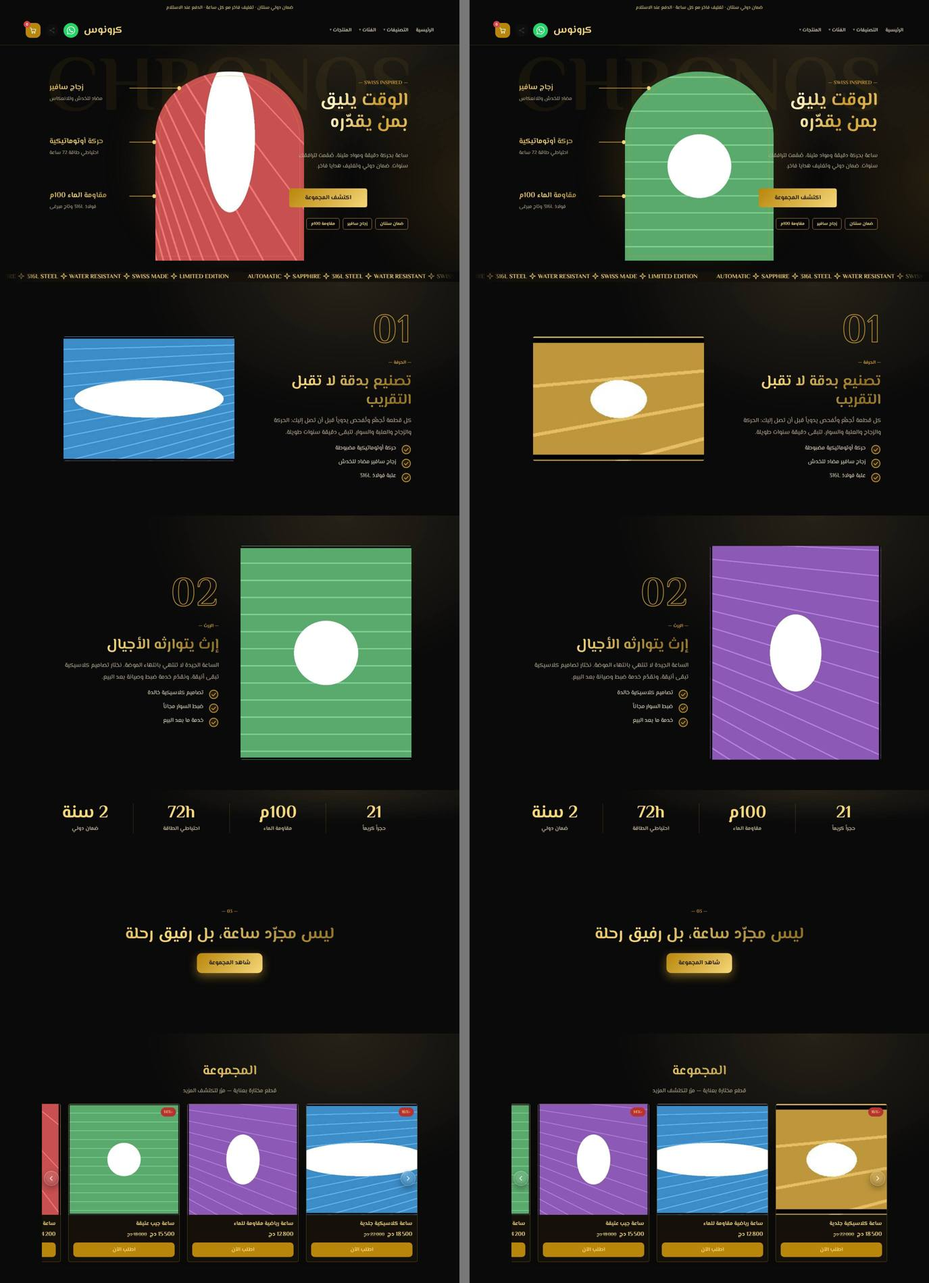
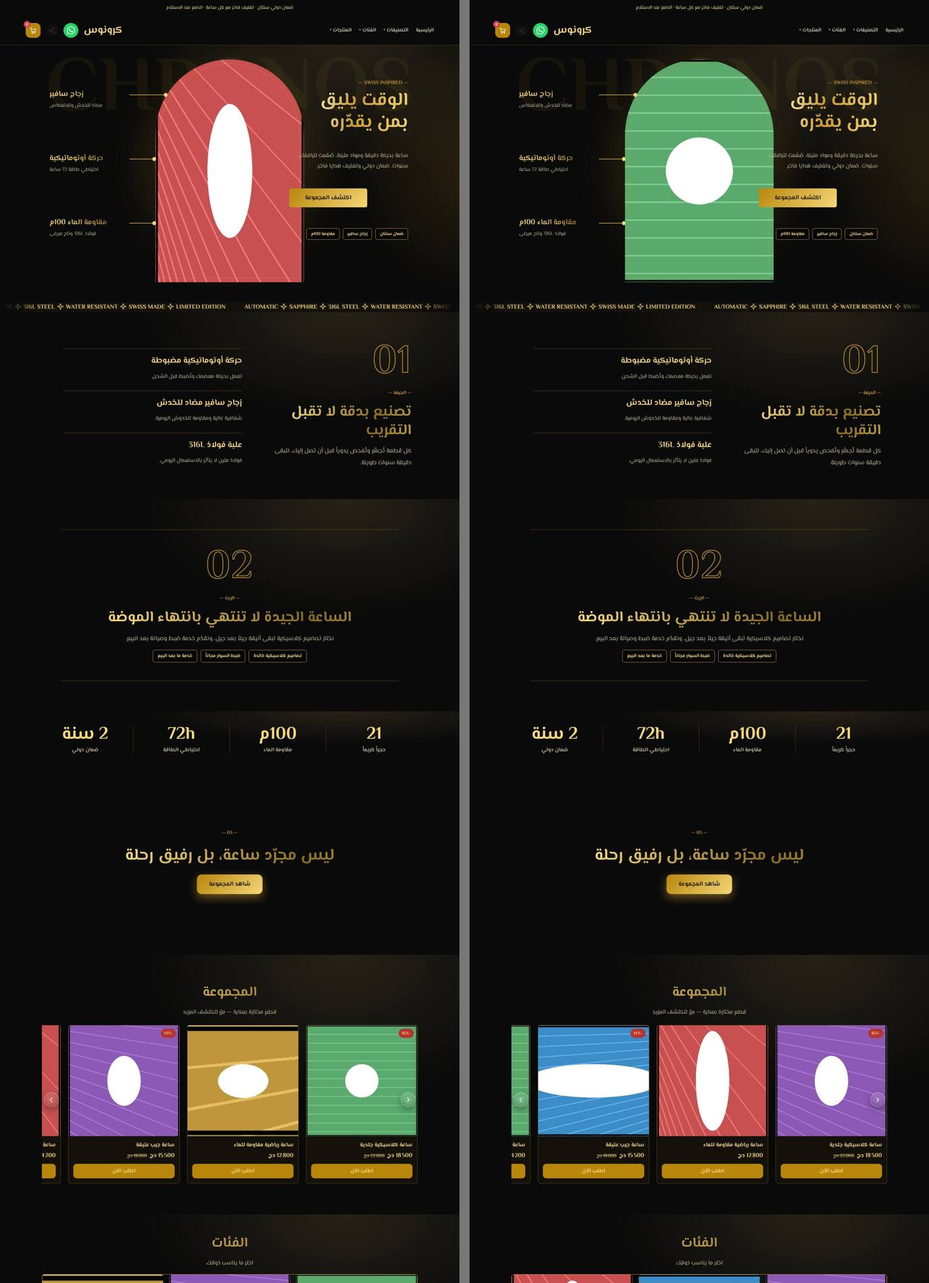
قوالب: فصلا s-watches نصّيان بلا تكرار صور، قوس الهيرو بنسبة الصورة الطبيعية، واختباران جديدان (تدقيق صور ثابت + استبدال عبر مكتبة الوسائط)
Claude-Session: https://claude.ai/code/session_0141cZSU8KsZF3m8G44FMnJF

diff --git a/tests/pilot-library-replace.js b/tests/pilot-library-replace.js
@@ -1,0 +1,106 @@
+// استبدال الصور عبر مكتبة الوسائط الحقيقية في المحرّر (أحداث فأرة فعلية) لتجربتي s-watches وs-tech.
+// يتحقق: (1) الصورة تتبدّل فعلاً من المكتبة (2) إطار الصورة (العرض والارتفاع على الشاشة) لا يتغيّر
+// (3) لافتة s-watches: استبدال خلفية القسم لا يغيّر ارتفاعه ويبقى bgFixed/cover (4) Ctrl+Z يعيد الأصل.
+// التشغيل: نفس متغيرات البطارية EQA_BASE EQA_STORE EQA_PASS EQA_OUT. ينتج لقطات قبل/بعد في EQA_OUT.
+const { chromium } = require("playwright");
+const BASE = process.env.EQA_BASE || "http://127.0.0.1:8391";
+const PW = process.env.EQA_PASS || "TestPass12345";
+const OUT = process.env.EQA_OUT || "/tmp";
+const UA = "Mozilla/5.0 (Windows NT 10.0; Win64; x64) AppleWebKit/537.36 (KHTML, like Gecko) Chrome/131.0.0.0 Safari/537.36";
+const sleep = ms => new Promise(r => setTimeout(r, ms));
+const results = []; let page;
+const check = (tpl, name, cond, extra) => { results.push(!!cond); console.log((cond ? "PASS " : "FAIL ") + `[${tpl}] ${name}` + (extra ? "  — " + String(extra).slice(0, 220) : "")); };
+
+(async () => {
+  const browser = await chromium.launch();
+  const ctx = await browser.newContext({ userAgent: UA, viewport: { width: 1360, height: 900 } });
+  await ctx.addInitScript(() => { Object.defineProperty(navigator, "webdriver", { get: () => undefined }); });
+  page = await ctx.newPage(); page.on("dialog", d => d.accept());
+  const jsErrs = []; page.on("pageerror", e => jsErrs.push(e.message.slice(0, 160)));
+  await page.goto(BASE + "/admin.html", { waitUntil: "commit", timeout: 90000 }); await sleep(4000);
+  await page.evaluate(pw => { const e = document.getElementById("login-pass"); e.classList.remove("hidden"); e.value = pw; Admin.login(); }, PW); await sleep(3500);
+  await page.goto(BASE + "/admin.html", { waitUntil: "commit", timeout: 90000 });
+  await page.waitForFunction(() => typeof Admin !== "undefined" && typeof AdminNav !== "undefined" && AdminNav.tplInstallHome && typeof PBConvert !== "undefined", null, { timeout: 60000 });
+  await sleep(2000);
+
+  const secs = () => page.evaluate(() => PBApp.E.page.sections.map(s => ({ id: s.id, set: s.set, bgImg: s.set && s.set.bgImg, ws: [].concat((s.free || []), ...(s.cols || []).map(c => c.widgets || [])).map(w => ({ id: w.id, type: w.type, set: w.set })) })));
+  const selIs = id => page.evaluate(x => PBApp.E.sel === x, id);
+  const clearSel = async () => { for (let i = 0; i < 4; i++) { await page.keyboard.press("Escape"); await sleep(110); } };
+  const scrollTo = async id => { await page.evaluate(wid => { const f = document.getElementById("pbx-frame"); const el = f.contentDocument.querySelector(`[data-kind="widget"][data-pb="${wid}"]`); if (!el) return; const fr = f.getBoundingClientRect(), er = el.getBoundingClientRect(); window.scrollTo(0, Math.max(0, window.scrollY + fr.top + er.top - window.innerHeight * 0.3)); }, id); await sleep(350); };
+  const clickWidget = async id => {
+    await clearSel(); const fr = page.locator("#pbx-frame").contentFrame(); const el = fr.locator(`[data-kind="widget"][data-pb="${id}"]`);
+    for (const [fx, fy] of [[.5, .5], [.3, .5], [.7, .5], [.5, .3], [.5, .7]]) {
+      await scrollTo(id); await el.scrollIntoViewIfNeeded().catch(() => {}); await sleep(200);
+      const bb = await el.boundingBox(); if (!bb) continue;
+      await page.mouse.click(bb.x + bb.width * fx, bb.y + bb.height * fy); await sleep(320); if (await selIs(id)) return true;
+    } return false;
+  };
+  const ensureField = async sel => {
+    for (const t of ["c", "s", "a"]) {
+      const tab = page.locator(`#pbx-insp [data-itab="${t}"]`); if (await tab.count()) { await tab.click().catch(() => {}); await sleep(300); }
+      if (await page.locator(sel).count()) return true;
+      const accs = page.locator("#pbx-insp [data-ac]"); const n = await accs.count();
+      for (let i = 0; i < n; i++) { await accs.nth(i).click().catch(() => {}); await sleep(220); if (await page.locator(sel).count()) return true; }
+    } return !!(await page.locator(sel).count());
+  };
+  const pickFromLibrary = async () => {     // يعيد مسار الصورة المختارة من تبويب صور المنتجات
+    const lib = page.locator("#pbx-lib"); if (!(await lib.count())) return null;
+    await lib.locator('[data-t="prod"]').click().catch(() => {}); await sleep(400);
+    const item = lib.locator("[data-p]").first(); if (!(await item.count())) return null;
+    const picked = await item.getAttribute("data-p"); await item.click(); await sleep(900); return picked;
+  };
+  const box = async id => { const fr = page.locator("#pbx-frame").contentFrame(); const bb = await fr.locator(`[data-kind="widget"][data-pb="${id}"]`).boundingBox(); return bb && { w: Math.round(bb.width), h: Math.round(bb.height) }; };
+  const shot = async (id, name) => { try { const fr = page.locator("#pbx-frame").contentFrame(); await clearSel(); await scrollTo(id); await fr.locator(`[data-kind="widget"][data-pb="${id}"]`).screenshot({ path: `${OUT}/${name}.jpg`, type: "jpeg", quality: 70 }); } catch (e) { } };
+
+  for (const tpl of ["s-watches", "s-tech"]) {
+    console.log("\n════════ " + tpl + " ════════");
+    try {
+      await page.evaluate(async id => { if (typeof AdminNav.libOpen === "function") { await AdminNav.libOpen(); AdminNav.libClose(); } await AdminNav.tplInstallHome(id); }, tpl);
+      await page.waitForFunction(() => { const f = document.getElementById("pbx-frame"); return f && f.contentDocument && f.contentDocument.querySelector('[data-kind="widget"]'); }, null, { timeout: 40000 }); await sleep(900);
+      if (await page.locator("#pbx-ask").count()) await page.click('#pbx-ask [data-k="no"]').catch(() => {}); await sleep(300);
+      // الصورة الرئيسية للهيرو: s-watches = القوس، s-tech = الصورة المقسومة (الأولى بإطار الصورة)
+      const S0 = await secs(); let hero = null;
+      for (const s of S0) for (const w of s.ws) if (w.type === "image" && (w.set.fxs || []).some(f => /^(قوس|إطار الصورة)/.test(f.n))) { hero = hero || w; }
+      check(tpl, "عُثر على صورة الهيرو الرئيسية", !!hero, hero && hero.set.src);
+      if (!hero) continue;
+      const src0 = hero.set.src, b0 = await box(hero.id); await shot(hero.id, `${tpl}-lib-before`);
+      check(tpl, "اختيار صورة الهيرو بالفأرة", await clickWidget(hero.id));
+      const found = await ensureField('#pbx-insp button[data-lib="src"]');
+      check(tpl, "زر مكتبة الوسائط (📚) ظاهر في المفتّش", found);
+      let picked = null;
+      if (found) { await page.locator('#pbx-insp button[data-lib="src"]').first().click(); await sleep(900); picked = await pickFromLibrary(); }
+      check(tpl, "اختيار صورة من المكتبة الحقيقية", !!picked, picked);
+      const S1 = await secs(); const w1 = S1.flatMap(s => s.ws).find(w => w.id === hero.id);
+      check(tpl, "مصدر الصورة تبدّل فعلاً إلى المختارة", w1 && w1.set.src === picked && picked !== src0, `${src0} → ${w1 && w1.set.src}`);
+      const rendered = await page.evaluate(id => { const f = document.getElementById("pbx-frame"); const im = f.contentDocument.querySelector(`[data-kind="widget"][data-pb="${id}"] img`); return im && { src: im.getAttribute("src"), ok: im.complete && im.naturalWidth > 0 }; }, hero.id);
+      check(tpl, "الصورة الجديدة تُرسم فعلاً في المحرّر", rendered && rendered.ok && picked && rendered.src.includes(picked.split("/").pop()), rendered && rendered.src);
+      const b1 = await box(hero.id); await shot(hero.id, `${tpl}-lib-after`);
+      check(tpl, "إطار الصورة لا يتغيّر (العرض والارتفاع على الشاشة)", b0 && b1 && Math.abs(b0.w - b1.w) <= 1 && Math.abs(b0.h - b1.h) <= 1, `${JSON.stringify(b0)} → ${JSON.stringify(b1)}`);
+      await clearSel(); await page.keyboard.press("Control+z"); await sleep(600);
+      const w2 = (await secs()).flatMap(s => s.ws).find(w => w.id === hero.id);
+      check(tpl, "Ctrl+Z يعيد الصورة الأصلية", w2 && w2.set.src === src0, w2 && w2.set.src);
+
+      // لافتة s-watches: خلفية القسم الأصلية (bgFixed) تُستبدل من المكتبة بلا تغيير ارتفاع القسم
+      if (tpl === "s-watches") {
+        const S = await secs(); const ban = S.find(s => s.bgImg && /watch_rock/.test(s.bgImg)); check(tpl, "قسم اللافتة بخلفيته الأصلية watch_rock", !!ban && ban.set.bgFixed === true && ban.set.bgSize === "cover", ban && JSON.stringify({ f: ban.set.bgFixed, s: ban.set.bgSize }));
+        const cs = await page.evaluate(id => { const f = document.getElementById("pbx-frame"); const el = f.contentDocument.querySelector(`.pb-sec[data-pb="${id}"]`); if (!el) return null; const c = getComputedStyle(el); return { att: c.backgroundAttachment, size: c.backgroundSize, h: Math.round(el.getBoundingClientRect().height) }; }, ban.id);
+        check(tpl, "سلوك الخلفية الأصلي مرسوم: background-attachment: fixed و cover", cs && /fixed/.test(cs.att) && /cover/.test(cs.size), JSON.stringify(cs));
+        const firstW = ban.ws.find(w => w.type === "heading") || ban.ws[0];
+        let kind = ""; check(tpl, "اختيار عنصر اللافتة بالفأرة", await clickWidget(firstW.id));
+        for (let k = 0; k < 3 && kind !== "section"; k++) { await page.keyboard.press("Escape"); await sleep(300); kind = await page.evaluate(() => { const i = PBApp.find(PBApp.E.sel); return i ? i.kind : "none"; }); }
+        check(tpl, "الصعود إلى القسم (Esc)", kind === "section");
+        let bgPicked = null;
+        if (kind === "section" && await ensureField('#pbx-insp button[data-lib="bgImg"]')) { await page.locator('#pbx-insp button[data-lib="bgImg"]').first().click(); await sleep(900); bgPicked = await pickFromLibrary(); }
+        check(tpl, "اختيار صورة خلفية من المكتبة الحقيقية", !!bgPicked, bgPicked);
+        const ban2 = (await secs()).find(s => s.id === ban.id);
+        const cs2 = await page.evaluate(id => { const f = document.getElementById("pbx-frame"); const el = f.contentDocument.querySelector(`.pb-sec[data-pb="${id}"]`); const c = getComputedStyle(el); return { att: c.backgroundAttachment, size: c.backgroundSize, h: Math.round(el.getBoundingClientRect().height) }; }, ban.id);
+        check(tpl, "الخلفية تبدّلت وبقي bgFixed/cover وارتفاع القسم كما هو", ban2.bgImg === bgPicked && ban2.set.bgFixed === true && /fixed/.test(cs2.att) && /cover/.test(cs2.size) && Math.abs(cs2.h - cs.h) <= 1, `${JSON.stringify(cs)} → ${JSON.stringify(cs2)}`);
+        await page.keyboard.press("Control+z"); await sleep(600);
+        const ban3 = (await secs()).find(s => s.id === ban.id); check(tpl, "Ctrl+Z يعيد خلفية اللافتة الأصلية", ban3.bgImg === ban.bgImg, ban3.bgImg);
+      }
+    } catch (e) { check(tpl, "اكتمال التشغيل بلا انهيار", false, e.message); }
+  }
+  check("all", "لا أخطاء JS", jsErrs.length === 0, jsErrs.slice(0, 3).join(" | "));
+  const f = results.filter(r => !r).length; console.log(`\n${results.length - f}/${results.length} PASS` + (f ? ` — ${f} FAILURES` : " — 0 FAILURES"));
+  await browser.close(); process.exit(f ? 1 : 0);
+})();

diff --git a/scripts/gen-templates-pilots.py b/scripts/gen-templates-pilots.py
@@ -71,7 +71,7 @@ thw = TH(k, True, GOLD2, MUTE, GOLD, GOLD2, "#ffffff08", BLKW, BLKW,
 
 import math
 ARCH = "50% 50% 0 0/34% 34% 0 0"
-def archx(y, top=96, wpct=40, h=560, left=30, W=1100):
+def archx(y, top=60, wpct=40, h=660, left=30, W=1100):
     """x (٪ من عرض القسم) لحافة القوس عند الارتفاع y — لتلامس خطوط الوصل الحافة تماماً"""
     rv = .34 * h
     if y >= top + rv: return left
@@ -87,37 +87,49 @@ def callout(i, y, title, text, mx, my, mw):
     ]
 hero_free = [
     FR("heading", 0, V(40, 280), 100, None, 1, text="CHRONOS", tag="p", fs=V(230, 104), fw="900", ta={"d": "center"}, color=GOLD, op=.07, lh={"d": 1}, hm=True, **anim("fadeIn", 1.4)),
-    FR("shape", 28, 110, 44, 500, 2, shape="ellipse", fill=GOLD, keep=False, op=.2, hm=True, fxs=[FX("هالة ضوء ذهبية", "selector{filter:blur(70px)}")]),
-    FR("image", V(30, 12, 27), V(96, 336, 100), V(40, 76, 46), V(560, 380, 470), 3, src=IMG("men_watch"), alt="ساعة كرونوغراف بسوار جلدي على خلفية سوداء", fit="cover", hauto=False,
+    FR("shape", 28, 90, 44, 560, 2, shape="ellipse", fill=GOLD, keep=False, op=.2, hm=True, fxs=[FX("هالة ضوء ذهبية", "selector{filter:blur(70px)}")]),
+    FR("image", V(30, 12, 27), V(60, 336, 100), V(40, 76, 46), V(660, 444, 565), 3, src=IMG("men_watch"), alt="ساعة كرونوغراف بسوار جلدي على خلفية سوداء", fit="cover", hauto=False,
        fxs=[FX("قوس الصورة وإطاره الذهبي", "selector{overflow:hidden;border-radius:%s}selector .pb-im{width:100%%;height:100%%;object-fit:cover;object-position:[[p]];transform:scale([[z]]);transition:transform 1.4s cubic-bezier(.2,.8,.2,1)}selector:hover .pb-im{transform:scale(calc([[z]] + .06))}selector::after{content:\"\";position:absolute;inset:12px;border:1px solid rgba(201,153,46,.65);border-radius:%s;pointer-events:none}" % (ARCH, ARCH),
-               p=("نقطة التركيز (س% ص%)", "text", "50% 60%"), z=("تقريب الصورة داخل القوس", "num", 1.12)),
+               p=("نقطة التركيز (س% ص%)", "text", "50% 50%"), z=("تقريب الصورة داخل القوس", "num", 1)),
             FX("طفو هادئ", "selector{animation:nwFl 7s ease-in-out infinite}@keyframes nwFl{50%{transform:translateY(-10px)}}")], **anim("zoomIn", 1.1, .1)),
     FT("— SWISS INSPIRED —", V(68, 6), V(116, 28), V(30, 88), V(15, 14), GOLD, "start", 6, "800", **anim("fadeDown", .7)),
     FR("heading", V(66, 6), V(150, 52), V(32, 88), None, 6, text="الوقت يليق بمن يقدّره", tag="h1", fs=V(54, 40, 44), fw="900", ta={"d": "start"}, color=GOLD2, lh={"d": 1.2}, fxs=[goldshimmer(k, 5)], **anim("fadeUp", .9)),
     FT("ساعة بحركة دقيقة ومواد متينة، صُمّمت لترافقك سنوات. ضمان دولي وتغليف هدايا فاخر.", V(66, 6), V(330, 150), V(32, 88), V(17, 15), MUTE, "start", 6, "500", **anim("fadeUp", .9, .1)),
     FR("button", V(66, 6), V(442, 262), V(21, 88), V(56, 54), 6, text="اكتشف المجموعة", kind="link", link="#products", bgc="#b8860b", color="#1a1409", hbg="#b8860b", fs=V(18, 16), fw="800", brad={"d": 6},
        fxs=[btngrad("#b8860b", GOLD2, "rgba(201,153,46,.55)", -3), shine(k, 3)], **anim("zoomIn", .9, .2)),
-    FR("tbadges", V(66, 6), V(530, 950), V(32, 88), None, 6, items="ضمان سنتان\nزجاج سافير\nمقاومة 100م", cbg="#00000050", cc=GOLD2, cbc=GOLD, crad=dm(6), cfs=dm(13), gap=dm(8), jc="flex-start", **anim("fadeUp", .9, .3)),
+    FR("tbadges", V(66, 6), V(560, 1014), V(32, 88), None, 6, items="ضمان سنتان\nزجاج سافير\nمقاومة 100م", cbg="#00000050", cc=GOLD2, cbc=GOLD, crad=dm(6), cfs=dm(13), gap=dm(8), jc="flex-start", **anim("fadeUp", .9, .3)),
 ]
-hero_free += callout(0, 130, "زجاج سافير", "مضاد للخدش وللانعكاس", 52, 746, 44) + callout(1, 290, "حركة أوتوماتيكية", "احتياطي طاقة 72 ساعة", 4, 746, 44) + callout(2, 450, "مقاومة الماء 100م", "فولاذ 316L وتاج مبرغى", 4, 856, 92)
+hero_free += callout(0, 150, "زجاج سافير", "مضاد للخدش وللانعكاس", 52, 810, 44) + callout(1, 340, "حركة أوتوماتيكية", "احتياطي طاقة 72 ساعة", 4, 810, 44) + callout(2, 530, "مقاومة الماء 100م", "فولاذ 316L وتاج مبرغى", 4, 920, 92)
 hero_free = hero_free[1:] + hero_free[:1]      # كلمة الخلفية الكبيرة (zi=1) آخر القائمة: الترتيب البصري بـzi لا بالموضع، وأول عنوان في القائمة هو عنوان الهيرو الظاهر
-w_hero = canvas(hero_free, dm(690, 1000, 700), BLKW("h") + [spotlight(k, "rgba(201,153,46,.16)")])
+w_hero = canvas(hero_free, dm(780, 1064, 760), BLKW("h") + [spotlight(k, "rgba(201,153,46,.16)")])
 
-def chapter(num, kick, title, text, items, img, alt, img_first, ratio, tilt=0):
-    txt = C([
-        W("heading", text=num, tag="p", fs=dm(120, 80), fw="900", ta={"d": "start"}, color="transparent", lh={"d": 1}, fxs=[outlinetext(GOLD, 2)], **anim("fadeIn", 1)),
-        T("— %s —" % kick, 14, GOLD, "start", fw="800", **anim("fadeDown")),
-        W("heading", text=title, tag="h2", fs=dm(44, 30), fw="900", ta={"d": "start"}, color=GOLD2, lh={"d": 1.25}, fxs=[goldshimmer(k + "t" + num, 6)], **anim("fadeUp")),
-        T(text, 18, MUTE, "start", **anim("fadeUp", .7, .1)),
-        bullets(items, "check-circle", GOLD, TXT, 17, **anim("fadeUp", .7, .2))], w=46, va="center", pad=dm([0, 0, 0, 0], [20, 0, 0, 0]))
-    pic = C([PIC(img, alt, 4, hauto=False, fxs=[ratioframe(ratio), FX("رفع ناعم بالمرور", "selector{transition:transform .6s cubic-bezier(.2,.8,.2,1)}selector:hover{transform:translateY(-8px)}"), FX("إطار ذهبي خارجي", "selector .pb-im{outline:1px solid rgba(201,153,46,.6);outline-offset:14px;transition:outline-offset .5s,outline-color .5s}selector:hover .pb-im{outline-offset:22px;outline-color:#f5d77a}")], **anim("zoomIn", .9))],
-            w=50, va="center", pad=dm([0, 0, 0, 0]))
-    cols = [pic, txt] if img_first else [txt, pic]
-    return S(cols, pad=dm([90, 20, 90, 20], [50, 16, 56, 16]), gap={"d": 64, "m": 28}, fxs=BLKW(num))
-w_c1 = chapter("01", "الحرفة", "تصنيع بدقة لا تقبل التقريب", "كل قطعة تُجمَّع وتُفحص يدوياً قبل أن تصل إليك: الحركة والزجاج والعلبة والسوار، لتبقى دقيقة سنوات طويلة.",
-               "حركة أوتوماتيكية مضبوطة\nزجاج سافير مضاد للخدش\nعلبة فولاذ 316L", "watch_hand", "ساعة بقرص أبيض بيد تحملها", False, "800/581")
-w_c2 = chapter("02", "الإرث", "إرث يتوارثه الأجيال", "الساعة الجيدة لا تنتهي بانتهاء الموضة. نختار تصاميم كلاسيكية تبقى أنيقة، ونقدّم خدمة ضبط وصيانة بعد البيع.",
-               "تصاميم كلاسيكية خالدة\nضبط السوار مجاناً\nخدمة ما بعد البيع", "watch_pocket", "ساعة جيب عتيقة معلّقة بسلسلة", True, "4/5")
+def _num(num, al="start"):
+    return W("heading", text=num, tag="p", fs=dm(120, 80), fw="900", ta={"d": al}, color="transparent", lh={"d": 1}, fxs=[outlinetext(GOLD, 2)], **anim("fadeIn", 1))
+def chapter_ledger(num, kick, title, text, rows):
+    """فصل نصّي: عنوان وفقرة على جهة، و«دفتر» من ثلاثة بنود بخطوط ذهبية رفيعة على الجهة الأخرى"""
+    left = C([_num(num), T("— %s —" % kick, 14, GOLD, "start", fw="800", **anim("fadeDown")),
+              W("heading", text=title, tag="h2", fs=dm(44, 30), fw="900", ta={"d": "start"}, color=GOLD2, lh={"d": 1.25}, fxs=[goldshimmer(k + "t" + num, 6)], **anim("fadeUp")),
+              T(text, 18, MUTE, "start", **anim("fadeUp", .7, .1))], w=44, va="center", pad=dm([0, 0, 0, 0], [20, 0, 0, 0]))
+    ws = []
+    for i, (t, x) in enumerate(rows):
+        ws += [W("heading", text=t, tag="h3", fs=dm(24, 20), fw="900", ta={"d": "start"}, color=GOLD2, lh={"d": 1.3},
+                 fxs=[FX("خط ذهبي علوي", "selector{border-top:1px solid rgba(201,153,46,.45);padding-top:20px;margin-top:10px}")], **anim("fadeUp", .7, .1 + i * .12)),
+               T(x, 16, MUTE, "start", **anim("fadeUp", .7, .2 + i * .12))]
+    right = C(ws, w=52, va="center", pad=dm([0, 0, 0, 0]))
+    return S([left, right], pad=dm([90, 20, 90, 20], [50, 16, 56, 16]), gap={"d": 64, "m": 28}, fxs=BLKW(num))
+def chapter_quote(num, kick, quote, text, chips):
+    """فصل نصّي: اقتباس كبير محاط بقاعدتين ذهبيتين وشارات تحته"""
+    c = C([_num(num, "center"), T("— %s —" % kick, 14, GOLD, "center", fw="800", **anim("fadeDown")),
+           W("heading", text=quote, tag="h2", fs=dm(44, 28), fw="900", ta={"d": "center"}, color=GOLD2, lh={"d": 1.3}, fxs=[goldshimmer(k + "q" + num, 6)], **anim("fadeUp")),
+           T(text, 18, MUTE, "center", **anim("fadeUp", .7, .1)),
+           W("tbadges", items=chips, cbg="#00000050", cc=GOLD2, cbc=GOLD, crad=dm(6), cfs=dm(14), gap=dm(10), jc="center", **anim("fadeUp", .7, .2))],
+          w=100, pad=dm([54, 30, 54, 30], [34, 14, 34, 14]),
+          fxs=[FX("قاعدتان تحريريتان", "selector{border-top:1px solid rgba(201,153,46,.45);border-bottom:1px solid rgba(201,153,46,.45)}")])
+    return S([c], cw={"d": 1000}, pad=dm([90, 20, 90, 20], [50, 16, 56, 16]), fxs=BLKW(num))
+w_c1 = chapter_ledger("01", "الحرفة", "تصنيع بدقة لا تقبل التقريب", "كل قطعة تُجمَّع وتُفحص يدوياً قبل أن تصل إليك، لتبقى دقيقة سنوات طويلة.",
+                      [("حركة أوتوماتيكية مضبوطة", "تعمل بحركة معصمك وتُضبط قبل الشحن."), ("زجاج سافير مضاد للخدش", "شفافية عالية ومقاومة للخدوش اليومية."), ("علبة فولاذ 316L", "فولاذ متين لا يتأثر بالاستعمال اليومي.")])
+w_c2 = chapter_quote("02", "الإرث", "الساعة الجيدة لا تنتهي بانتهاء الموضة", "نختار تصاميم كلاسيكية تبقى أنيقة جيلاً بعد جيل، ونقدّم خدمة ضبط وصيانة بعد البيع.",
+                     "تصاميم كلاسيكية خالدة\nضبط السوار مجاناً\nخدمة ما بعد البيع")
 w_stats = S([C([W("counter", n=n, pre=p, suf=s, label=l, fs=dm(52, 34), color=GOLD2, lc=MUTE, fxs=[goldshimmer(k + "n" + str(i), 6)], **anim("zoomIn", .7, .1 + i * .1))], w=dm(25, 50), pad=dm([0, 0, 0, 0]),
               fxs=[FX("فاصل ذهبي", "@media(min-width:768px){selector{border-inline-start:1px solid #c9992e55}}")] if i else [])
              for i, (n, p, s, l) in enumerate([(21, "", "", "حجراً كريماً"), (100, "", "م", "مقاومة الماء"), (72, "", "h", "احتياطي الطاقة"), (2, "", " سنة", "ضمان دولي")])],

diff --git a/tests/pilot-image-audit.py b/tests/pilot-image-audit.py
@@ -1,0 +1,73 @@
+#!/usr/bin/env python3
+"""تدقيق صور تجربتي s-watches وs-tech مقابل الأصل (ثابت، بلا متصفح): python3 tests/pilot-image-audit.py [أصل=c83b917]
+يتحقق من: (1) مراجع المنتجات والفئات الأصلية (2) النسب ونقاط التركيز الافتراضية (3) خلفية اللافتة الأصلية (4) عدم تكرار صورة أكثر مما في الأصل
+(5) ملفات الصور متطابقة بايتاً مع الأصل. المرجع: docs/pilots/IMAGE-AUDIT.md"""
+import json, re, subprocess, sys, io, os, collections
+from PIL import Image
+ORIG = sys.argv[1] if len(sys.argv) > 1 else "c83b917"
+ROOT = os.path.dirname(os.path.dirname(os.path.abspath(__file__)))
+os.chdir(ROOT)
+res = []
+def check(t, n, c, x=""):
+    res.append(c); print(("PASS " if c else "FAIL ") + f"[{t}] {n}" + (f"  — {x}" if x else ""))
+def git(path): return subprocess.run(["git", "show", f"{ORIG}:{path}"], capture_output=True).stdout
+def load_orig(t): return json.loads(git(f"assets/pages/templates/{t}.json"))
+def load_now(t): return json.load(open(f"assets/pages/templates/{t}.json", encoding="utf-8"))
+def widgets(pg):
+    out = []
+    def walk(n, sec=None):
+        if isinstance(n, dict):
+            if n.get("type") and "set" in n: out.append(n)
+            for v in n.values(): walk(v)
+        elif isinstance(n, list):
+            for v in n: walk(v)
+    walk(pg["sections"]); return out
+def imgs_in(pg):
+    return re.findall(r'assets/img/tpl/([a-z0-9_\-]+)\.webp', json.dumps(pg, ensure_ascii=False))
+def dims(n): return Image.open(f"assets/img/tpl/{n}.webp").size
+ADDED = {"s-watches": {"men_watch", "men_suit"}, "s-tech": {"gad_vr", "gad_watch", "gad_vr2", "dig_code", "it_dark"}}
+for t in ("s-watches", "s-tech"):
+    o, n = load_orig(t), load_now(t); ow, nw = widgets(o), widgets(n)
+    # 1) منتجات وبلاطات
+    op = next(w for w in ow if w["type"] == "products")["set"]["demo"]; np_ = [d for w in nw if w["type"] == "products" for d in w["set"].get("demo", [])]
+    for i, d in enumerate(op):
+        m = next((x for x in np_ if x["i"] == d["i"]), None)
+        check(t, f"منتج أصلي {i+1} موجود بصورته واسمه وسعره: {d['i'].split('/')[-1]}", bool(m) and m["t"] == d["t"] and m["p"] == d["p"] and m["o"] == d["o"])
+    oc = next(w for w in ow if w["type"] == "shopcats")["set"]; ncs = [w for w in nw if w["type"] == "shopcats"]
+    check(t, "قسم الفئات موجود", len(ncs) == 1)
+    if ncs:
+        c = ncs[0]["set"]
+        check(t, "صور بلاطات الفئات الأصلية بترتيبها", [x["img"] for x in c["items"]] == [x["img"] for x in oc["items"]], [x["img"].split("/")[-1] for x in c["items"]])
+        check(t, "نسبة البلاطات 1:1 كالأصل", c.get("ratio") == oc.get("ratio") == "1/1")
+    # 2) النسب ونقاط التركيز الافتراضية
+    fr = [(w, fx) for w in nw if w["type"] == "image" for fx in w["set"].get("fxs", []) if fx["n"].startswith("إطار الصورة")]
+    for w, fx in fr:
+        src = os.path.basename(w["set"]["src"]).replace(".webp", ""); W_, H_ = dims(src); r = fx["p"]["r"]["v"]; a, b = [float(x) for x in r.split("/")]
+        check(t, f"نسبة الإطار الافتراضية = نسبة {src} الطبيعية ({W_}/{H_})", abs(a / b - W_ / H_) / (W_ / H_) < .01, r)
+        check(t, f"نقطة التركيز الافتراضية للإطار 50% 50% ({src})", fx["p"]["p"]["v"] == "50% 50%")
+    arch = [(w, fx) for w in nw if w["type"] == "image" for fx in w["set"].get("fxs", []) if fx["n"].startswith("قوس")]
+    for w, fx in arch:
+        src = os.path.basename(w["set"]["src"]).replace(".webp", ""); W_, H_ = dims(src); st = w["set"]
+        fw, fh = st["fwd"]["d"] / 100 * 1100, st["fh"]["d"]
+        check(t, f"قوس الهيرو: نسبة الإطار ≈ نسبة {src} الطبيعية ({W_}/{H_})", abs(fw / fh - W_ / H_) / (W_ / H_) < .03, f"{fw:.0f}/{fh}")
+        check(t, "قوس الهيرو: تقريب افتراضي 1 ونقطة تركيز 50% 50% (بلا قص)", fx["p"]["z"]["v"] == 1 and fx["p"]["p"]["v"] == "50% 50%")
+    pr = [fx for w in nw if w["type"] == "products" for fx in w["set"].get("fxs", []) if fx["n"].startswith("نسبة صورة")]
+    check(t, "نسبة صور بطاقات المنتجات 1:1 كالأصل", pr and all(fx["p"]["r"]["v"] == "1/1" for fx in pr))
+    # 3) اللافتة
+    ob = [x["set"] for x in o["sections"] if "bgImg" in x["set"]]; nb = [x["set"] for x in n["sections"] if "bgImg" in x["set"]]
+    if t == "s-watches":
+        ob0, nb0 = ob[0], next(x for x in nb if x["bgImg"] == ob[0]["bgImg"])
+        keys = ["bgImg", "bgSize", "bgPos", "grad1", "grad2", "gradAng", "bgFixed"]
+        check(t, "خلفية اللافتة الأصلية (الصورة/الحجم/الموضع/التدرّج/bgFixed) كما هي", all(ob0.get(k) == nb0.get(k) for k in keys), {k: nb0.get(k) for k in keys})
+    # 4) التكرار
+    co, cn = collections.Counter(imgs_in(o)), collections.Counter(imgs_in(n))
+    bad = {k: (cn[k], co.get(k, 0)) for k in cn if k in co and cn[k] > co[k]}
+    check(t, "لا صورة أصلية تتكرر أكثر مما في الأصل", not bad, bad or dict(cn))
+    bad2 = {k: v for k, v in cn.items() if k in ADDED[t] and v > 1}
+    check(t, "الصور المضافة المعتمدة تظهر مرة واحدة", not bad2, bad2)
+    unk = [k for k in cn if k not in co and k not in ADDED[t]]
+    check(t, "لا صور خارج الأصل والإضافات المعتمدة", not unk, unk)
+    # 5) الملفات
+    same = all(git(f"assets/img/tpl/{k}.webp") == open(f"assets/img/tpl/{k}.webp", "rb").read() for k in cn)
+    check(t, "ملفات كل الصور المستعملة متطابقة بايتاً مع الأصل", same)
+f = res.count(False); print(f"\n{len(res)-f}/{len(res)} PASS" + (f" — {f} FAILURES" if f else " — 0 FAILURES")); sys.exit(1 if f else 0)

diff --git a/docs/pilots/IMAGE-AUDIT.md b/docs/pilots/IMAGE-AUDIT.md
@@ -67,15 +67,15 @@
 ### s-watches
 | الصورة | مراجع الأصل | المراجع الآن | القص الافتراضي | الحالة |
 |---|---|---|---|---|
-| `watch_hand` | منتج 1 + بلاطة 1 | منتج 1 (1:1) + بلاطة 1 (1:1) + **الفصل 01** | الفصل: 800/581 (الطبيعية، بلا قص) | **أُعيد المرجعان الأصليان** + استعمال إضافي |
+| `watch_hand` | منتج 1 + بلاطة 1 | منتج 1 (1:1) + بلاطة 1 (1:1) | كالأصل | **أُعيد المرجعان الأصليان** (بلا تكرار إضافي) |
 | `watch_wrist` | منتج 2 + بلاطة 3 | منتج 2 (1:1) + بلاطة (1:1) | كالأصل | أُعيدا |
-| `watch_pocket` | منتج 3 + بلاطة 2 | منتج 3 + بلاطة + **الفصل 02** | الفصل: 4/5 (الطبيعية 800×1000) | أُعيدا + استعمال إضافي |
+| `watch_pocket` | منتج 3 + بلاطة 2 | منتج 3 + بلاطة | كالأصل | أُعيدا (بلا تكرار إضافي) |
 | `watch_white` | منتج 4 | منتج 4 (1:1) | كالأصل | أُعيد القص 1:1 |
 | `watch_rock` | منتج 5 + لافتة | منتج 5 + لافتة (`bgFixed` أُعيد) | كالأصل | أُعيدا |
 | `gad_watch` | منتج 6 | منتج 6 (1:1) | كالأصل | أُعيد القص 1:1 |
 | `av_m1/2/3` | آراء | آراء | — | كما هي |
-| `men_watch` (إضافة) | — | هيرو بالقوس | إطار 0.8 (الصورة 0.67) + تقريب 1.12 قابل للضبط | **بانتظار موافقتك** |
-| `men_suit` (إضافة) | — | خلفية الخدمات | cover + تعتيم | **بانتظار موافقتك** |
+| `men_watch` (إضافة) | — | هيرو بالقوس | إطار 0.667 = نسبتها الطبيعية، تقريب 1 | **معتمدة** |
+| `men_suit` (إضافة) | — | خلفية الخدمات | cover + تعتيم | **معتمدة** |
 
 المنتجات التجريبية الستة الأصلية عادت بأسمائها وأسعارها وصورها (6 بدل 3)، وقسم «الفئات» عاد بالبلاطات الثلاث الأصلية (صححتُ فقط عنواني بلاطتين كانا مقلوبين: الجيب = `watch_pocket`، الرياضية = `watch_wrist`).
 
@@ -85,14 +85,20 @@
 | `it_color` | هيرو بالنسبة الطبيعية | هيرو | 1000/1250 (الطبيعية، بلا قص) + تدوير الأصل | أُعيد كاملاً |
 | `it_pc` / `it_laptop` / `it_code` | بلاطة فئة + منتج | بلاطة فئة (1:1) + منتج (1:1) | كالأصل | **أُعيدت البلاطات** |
 | `it_circuit` / `gad_earbuds` / `gad_speaker` | منتجات | منتجات | 1:1 | كما هي |
-| `gad_vr`, `gad_watch` | — | منتجان مضافان (للتبويبات) | 1:1 | **بانتظار موافقتك** |
-| `gad_vr2`, `dig_code`, `it_dark` | — | خلفيات بطاقات الاستعمال | cover + تعتيم | **بانتظار موافقتك** |
+| `gad_vr`, `gad_watch` | — | منتجان مضافان (للتبويبات) | 1:1 | **معتمدة** |
+| `gad_vr2`, `dig_code`, `it_dark` | — | خلفيات بطاقات الاستعمال | cover + تعتيم | **معتمدة** |
 
 المنتجات الستة الأصلية بترتيبها الأصلي (+ الإضافتان) وقسم «الفئات» الأصلي بصوره.
 
-### قرار مطلوب منك
-- **تكرار الصور:** في s-watches تظهر `watch_hand` و`watch_pocket` الآن ثلاث مرات (فصل + منتج + بلاطة) بدل مرتين في الأصل، لأن مكتبة الـ154 لا تحوي صور ساعات أخرى. الخياران: (أ) إبقاء ذلك، (ب) استخدام صورتين أخريين للفصلين تقترحهما أنت، (ج) حذف صور الفصلين وتحويلهما إلى نص فقط.
-- الموافقة على **الإضافات** المدرجة «بانتظار موافقتك» أو حذفها.
+### القرارات المعتمدة وتنفيذها
+- **التكرار:** بحثتُ في مكتبة الـ154 عن صورتين ساعاتيتين مختلفتين للفصلين فلم أجد: كل صور الساعات مستعملة أصلاً (`watch_hand/wrist/pocket/white/rock`، `gad_watch`، `men_watch`)، و`men_blazer` و`acc_outfit` فيهما ساعة صغيرة غير مقصودة بالصورة (ليستا صورتَي ساعات)، والمجوهرات (`jewel_*`) ليست ساعات. فاستُبدل الفصلان بتركيبتين تحريريتين نصيّتين: «دفتر» بثلاثة بنود بخطوط ذهبية (الحرفة)، واقتباس كبير بين قاعدتين ذهبيتين مع شارات (الإرث). **لا صورة أُضيفت ولا صورة أصلية حُذفت.** النتيجة: `watch_hand` و`watch_pocket` مرتان فقط (منتج + بلاطة) كالأصل بالضبط.
+- **الإضافات المعتمدة** (تكمّل ولا تحلّ محل أي صورة أصلية): s-watches: `men_watch` و`men_suit`؛ s-tech: `gad_vr` و`gad_watch` و`gad_vr2` و`dig_code` و`it_dark`.
+- **القص الافتراضي لإطار الهيرو في s-watches:** نسبة القوس = نسبة `men_watch` الطبيعية (440/660 مقابل 800/1198) وتقريب 1 ونقطة تركيز 50% 50%؛ أي قص أو تقريب اختياري من المحرّر.
 
-### اختبار صمود الإطارات بعد الإصلاح
-استبدال كل الصور بصور اصطناعية بأبعاد مختلفة (طولية، عريضة، مربعة، صغيرة) بتوزيعين: **ارتفاع الصفحة متطابق مع الأصلي** (s-watches: 6391 سطح مكتب / 7321 جوال؛ s-tech: 6420 / 9512) ولا تعدٍّ أفقي (`image-swap-test.jpg` لكل قالب).
+### التحقق النهائي (آلي، `tests/pilot-image-audit.py` + `tests/pilot-library-replace.js`)
+1. مراجع المنتجات الأصلية (اسم + سعر + قديم + صورة) والبلاطات الأصلية (بترتيبها) كلها موجودة.
+2. النسب ونقاط التركيز الافتراضية = نسب الصور الطبيعية و50% 50%؛ بطاقات المنتجات والبلاطات 1:1.
+3. لافتة s-watches: `bgImg/bgSize/bgPos/grad1/grad2/gradAng/bgFixed` مطابقة للأصل، و`background-attachment: fixed` مرسوم فعلاً.
+4. استبدال الصورة عبر **مكتبة الوسائط الحقيقية** (زر 📚، فأرة فعلية): الصورة تتبدل وتُرسم، **إطارها لا يتغيّر**، Ctrl+Z يعيدها؛ وكذلك خلفية اللافتة بلا تغيّر في ارتفاع القسم أو `fixed/cover`.
+5. لا تكرار: كل صورة أصلية بعدد مراجعها في الأصل أو أقل، والإضافات مرة واحدة، ولا صور خارج الأصل والإضافات.
+6. ملفات الصور المستعملة متطابقة بايتاً مع الأصل.

diff --git a/docs/pilots/README.md b/docs/pilots/README.md
@@ -13,8 +13,8 @@
 (لقطات صفحة كاملة للعرض الفعلي في المتصفح بمنتجات العرض التجريبي؛ لا تعدٍّ أفقياً `overflow=0` في الأحجام الثلاثة للقالبين.)
 
 ## s-watches — فخامة تحريرية
-- **هيرو:** صورة داخل **قوس** بإطار ذهبي داخلي وهالة ضوء خلفها (إطار بنسبة 0.8 قريبة من الصورة 0.67؛ التقريب 1.12 وسيط قابل للتعديل)، وحولها **ثلاث مواصفات** (زجاج سافير، حركة أوتوماتيكية، مقاومة الماء 100م) كلٌّ بعنوان ووصف وخط وصل **يلامس حافة القوس** ونقطة نابضة؛ كلمة «CHRONOS» ضخمة خلف الساعة؛ العنوان والزر والشارات على الجهة الأخرى. كلها **عناصر حرة مستقلة** (22 عنصراً حراً في قسم الهيرو).
-- **السرد:** فصلان متناوبان صورة/نص بأرقام كبيرة (01 / 02) وقوائم نقاط، ثم شريط أرقام، ثم لافتة بصورة عريضة، ثم **سلايدر المنتجات الستة الأصلية**، ثم قسم «الفئات» الأصلي بصوره، ثم خدمات بأيقونات فوق خلفية، فآراء/عرض/أسئلة/تذييل.
+- **هيرو:** صورة داخل **قوس** بإطار ذهبي داخلي وهالة ضوء خلفها (إطار بنسبة الصورة الطبيعية 0.667، تقريب افتراضي 1 وسيط قابل للتعديل)، وحولها **ثلاث مواصفات** (زجاج سافير، حركة أوتوماتيكية، مقاومة الماء 100م) كلٌّ بعنوان ووصف وخط وصل **يلامس حافة القوس** ونقطة نابضة؛ كلمة «CHRONOS» ضخمة خلف الساعة؛ العنوان والزر والشارات على الجهة الأخرى. كلها **عناصر حرة مستقلة** (22 عنصراً حراً في قسم الهيرو).
+- **السرد:** فصلان تحريريان **نصّيان** (بلا صور مكرَّرة): «دفتر» ببنود بخطوط ذهبية رفيعة (01) واقتباس كبير بين قاعدتين ذهبيتين مع شارات (02)، بأرقام مفرَّغة كبيرة، ثم شريط أرقام، ثم لافتة بصورة عريضة، ثم **سلايدر المنتجات الستة الأصلية**، ثم قسم «الفئات» الأصلي بصوره، ثم خدمات بأيقونات فوق خلفية، فآراء/عرض/أسئلة/تذييل.
 - **الفروق التفصيلية والتفاعل:** حروف ذهبية رفيعة للأرقام، فواصل بين الإحصاءات، توهّج زر؛ عند المرور: تقريب بطيء داخل القوس، وإطار ذهبي خارجي يبتعد عن صور الفصول وترتفع الصورة، وبطاقات المنتجات ترتفع بظل ذهبي.
 - **الجوال:** الساعة فوق العنوان ثم المواصفات في شبكة من عمودين ثم الأزرار؛ الفصول تُكدَّس (نص ثم صورة).
 
@@ -46,7 +46,7 @@
 - **ملفات الصور** متطابقة بايتاً مع الأصل (لا حذف ولا إعادة ضغط).
 - أُعيدت المراجع التي حُذفت: المنتجات التجريبية الستة الأصلية، وقسم «الفئات» بصوره الأصلية في القالبين، و`bgFixed` للافتة s-watches، ونسبة 1:1 لبطاقات المنتجات.
 - **الإطارات:** `fit: cover` بنسبة ثابتة **افتراضها نسبة الصورة الأصلية (بلا قص)**؛ وسيطان قابلان للتعديل في المحرّر لأي قص جديد: «نسبة الإطار» و«نقطة التركيز» (وفي القوس «تقريب الصورة داخل القوس»). لا `crop` تدميري.
-- **اختبار الصمود:** استبدال كل الصور بصور بأبعاد مختلفة (طولية 1:3، عريضة 4:1، مربعة، صغيرة 300×200، 2:3) بتوزيعين: ارتفاع الصفحة **متطابق مع الأصلي** (s-watches: 6391 / 7321 جوال؛ s-tech: 6420 / 9512) بلا تعدٍّ أفقي (`image-swap-test.jpg`).
+- **اختبار الصمود:** استبدال كل الصور بصور بأبعاد مختلفة (طولية 1:3، عريضة 4:1، مربعة، صغيرة 300×200، 2:3) بتوزيعين: ارتفاع الصفحة **متطابق مع الأصلي** (s-watches: 6158 / 6918 جوال؛ s-tech: 6420 / 9512) بلا تعدٍّ أفقي (`image-swap-test.jpg`).
 
 ## ما لم يُجرَّب (صراحةً)
 - تثبيت القالبين على متجر حقيقي بمنتجات صاحبه (صفوف «حسب الفئة» تحتاج مفاتيح `cat` في المنتجات؛ ربطها تلقائياً تغيير في المنصة وهو اقتراح فقط).

diff --git a/platform/docs/changelog.md b/platform/docs/changelog.md
@@ -1951,3 +1951,5 @@
 **فرع `feature/alyssum-theme-studio` (بلا رفع إصدار ولا دمج في main) — تجربتان تصميميتان لقوالب المتجر القديمة (طلب صاحب المتجر):** أُعيد تركيب `s-watches` (هيرو بساعة كبيرة مقصوصة ومحيطة بها مواصفات بخطوط وصل كعناصر حرة، فصول صورة/نص متناوبة بأرقام كبيرة، شريط أرقام، لافتة، منتجات في سلايدر، خدمات) و`s-tech` (هيرو مقسوم بصورة وبطاقات، «تسوّق حسب استعمالك» ببطاقات صور، مقارنة ثلاث فئات بمؤشرات `progress`، «الأكثر طلباً»، تصفّح بحسب الفئة بتبويبات) بمكوّنات المطوّر الأصلية فقط. الملف الجديد `scripts/gen-templates-pilots.py` (مولّد معرّفات معزول فلا يتغيّر أي قالب آخر؛ تغيّرت الملفات `s-watches/s-tech/prod-*/index.json` فقط). اختبارات جديدة `tests/pilot-editability.js`؛ صور قبل/بعد في `docs/pilots/`. **لم يُجرَّب:** تثبيت القالبين على متجر حقيقي بمنتجات صاحبه، وربط المنتجات بالفئات تلقائياً (يحتاج مفاتيح `cat` في منتجات المتجر).
 
 **فرع `feature/alyssum-theme-studio` (تحديث التجربتين، بلا رفع إصدار): الصور بدائل مؤقتة والتصميم يصمد مع أي صورة (طلب صاحب المتجر):** إطارات صور ثابتة (`fit=cover` + ارتفاع مثبّت) مع وسيط «نقطة تركيز الصورة» و«نسبة صورة البطاقة»، وإزالة قصة الهيرو (crop) المرتبطة بأبعاد صورة تجريبية؛ s-watches: هيرو بقوس إطاره ذهبي وخطوط وصل تلامس حافته؛ s-tech: شريط «ابحث بالاستعمال» وبطاقات استعمال مرقّمة. اختُبر باستبدال كل الصور بأبعاد مختلفة (ارتفاع الصفحة متطابق) وبطارية القبول 82/82 و`pilot-editability` 16/16. **لم يُجرَّب:** استبدال الصور عبر واجهة مكتبة الوسائط على كل صورة رئيسية.
+
+**فرع `feature/alyssum-theme-studio` (القرارات النهائية للتجربتين، بلا رفع إصدار): الصور الأصلية محفوظة بالكامل:** استعادة المنتجات التجريبية الستة وقسم الفئات بصوره و`bgFixed` للافتة؛ فصلا s-watches صارا تركيبتين تحريريتين نصيّتين (لا صور ساعات إضافية في المكتبة) فلا تكرار فوق الأصل؛ إطارات الصور بنسبة الصورة الأصلية افتراضاً (وسيطا «نسبة الإطار» و«نقطة التركيز»). الإضافات المعتمدة: `men_watch`/`men_suit` (s-watches) و`gad_vr`/`gad_watch`/`gad_vr2`/`dig_code`/`it_dark` (s-tech). اختبارات جديدة: `tests/pilot-image-audit.py` (33 فحصاً ثابتاً مقابل الأصل) و`tests/pilot-library-replace.js` (استبدال الصور عبر مكتبة الوسائط الحقيقية، 24 فحصاً). **لم يُجرَّب:** تثبيت القالبين على متجر حقيقي بمنتجاته وصوره.
